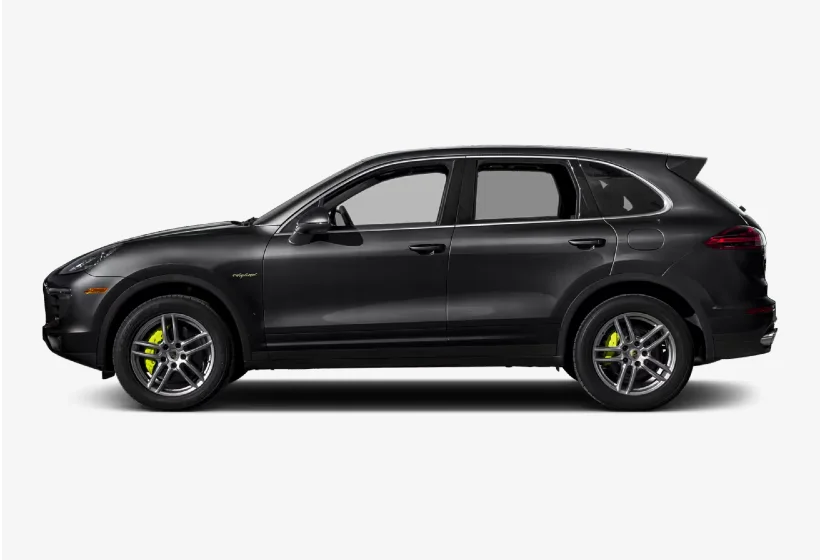
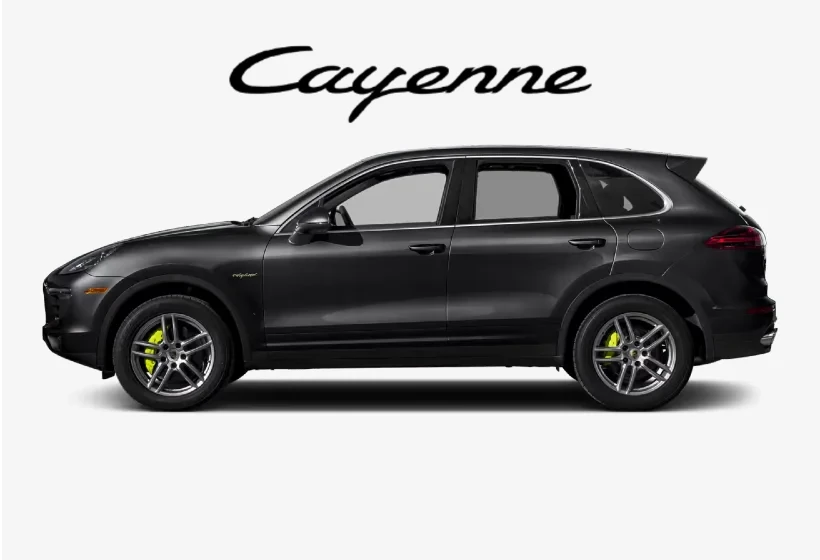
feat: añadir diseño responsive e imágenes y video exclusivo para PC

Changed region(s): [[0.2744, 0.0607, 0.7317, 0.2125]]

diff --git a/style.css b/style.css
@@ -6,6 +6,16 @@ p, h1, h3 {
     font-family: "Lato", sans-serif;
 }
 
+i, b {
+    text-align: center;
+    margin: 10%;
+    display: block;
+}
+
+#video-pc{
+    display: none;
+}
+
 .modelos {
     overflow: hidden;
     position: relative;
@@ -30,5 +40,71 @@ p, h1, h3 {
 
 .Motorsport img {
     border-radius: 50px;
+    width: 100%;
+}
+
+.historia p {
+  text-align: justify;
+  margin: 10%;
+}
+
+.historia img{
+    width: 80%;
+    border-radius: 50px; 
+    margin: 10%; 
+}
+
+#motorsport-pc{
+    display:none;
+}
+
+@media screen and (min-width: 1200px){
+    
+    #video-mobile{
+        display: none;
+    }
+
+    #video-pc{
+        display: block;
+    }
+    
+    p, i, b {
+        font-size: 25px;
+    }
+
+    header img {
+        width: 80px;
+    }
+
+    .historia{
+        display: flex;
+    }
+
+    .historia p{
+        width: 50%;
+        gap: 10px;
+        margin: auto;
+    }
+
+
+    .historia img{
+        width: 30%;
+        gap: 10px;
+        margin: auto;
+    }
+
+    .Motorsport{
+        display: flex;
+        flex-direction: column;
+    }
+
+    #motorsport-mobile{
+        display: none;
+    }
+
+    #motorsport-pc{
+        display: block;
+    }
+
 }
 

diff --git a/index.html b/index.html
@@ -15,21 +15,24 @@
     <audio src="resources/engine.mp3" autoplay> Audio </audio>
     <header>
         <img src="resources/logo.webp" alt="Logo" width="20%" style="position: absolute;">
-        <video src="resources/Porsche.webm" 
+        <video id="video-pc" src="resources/PorschePC.webm"
+        loop muted autoplay width="100%"></video>
+        <video id="video-mobile" src="resources/Porsche.webm" 
         loop muted autoplay width="100%"></video>
     </header>
     
+    <i>“Al principio miré a mi alrededor y no encontré el auto con el que soñaba. Así que decidí construirlo yo mismo.”</i>
     <div>
-        <i style="text-align: center; margin: 10%; display: block">“Al principio miré a mi alrededor y no encontré el auto con el que soñaba. Así que decidí construirlo yo mismo.”</i>
-        <div style="text-align: center">
-            <b>Ferry Porsche — Fundador de la marca.</b>
-        </div>
-        <img src="resources/ferryPorsche.webp" alt="Ferry Porsche" width="80%" style="border-radius: 50px; margin: 10%;" >
-        <p style="text-align: justify; margin: 10%">En 1948, el mundo del automovilismo cambió para siempre. Ante la frustración de no encontrar un auto deportivo que cumpliera con sus altas expectativas de ligereza, agilidad y rendimiento, Ferry Porsche tomó una decisión radical: diseñar y construir el coche de sus sueños con sus propias manos. Así nació el Porsche 356, el primer capítulo de una leyenda obsesionada con desafiar la física, dominar los circuitos de carreras y redefinir la ingeniería alemana en cada generación.</p>
+        <b>Ferry Porsche — Fundador de la marca.</b>
+    </div>
+    
+    <div class="historia">
+        <img src="resources/ferryPorsche.webp" alt="Ferry Porsche">
+        <p>En 1948, el mundo del automovilismo cambió para siempre. Ante la frustración de no encontrar un auto deportivo que cumpliera con sus altas expectativas de ligereza, agilidad y rendimiento, Ferry Porsche tomó una decisión radical: diseñar y construir el coche de sus sueños con sus propias manos. Así nació el Porsche 356, el primer capítulo de una leyenda obsesionada con desafiar la física, dominar los circuitos de carreras y redefinir la ingeniería alemana en cada generación.</p>
     </div>
 
-    <h1 style="text-align: center">Modelos Vehiculos</h1>
     <div class="modelos">
+        <h1 style="text-align: center">Modelos Vehiculos</h1>
         <div class="modelos-slide">
             <img src="resources/911.webp" alt="911">
             <img src="resources/718.webp" alt="718">
@@ -38,11 +41,12 @@
         </div>
     </div>
 
+    
     <h1 style="text-align: center">Porsche Motorsport</h1>
     <h3 style="text-align: center">Nacido para las Carreras</h3>
-
     <div class="Motorsport">
-        <img src="resources/mRaceborn.webp" alt="Raceborn" style="width: 100%">
+        <img id="motorsport-pc" src="resources/Raceborn.webp" alt="Raceborn">
+        <img id="motorsport-mobile" src="resources/mRaceborn.webp" alt="Raceborn">
         <p>La historia de Porsche está ligada al asfalto de los circuitos bajo el lema de Porsche Motorsport, #Raceborn. Desde su legendaria victoria de clase en las 24 Horas de Le Mans en 1951, la marca ha utilizado la alta competición no como un escaparate publicitario, sino como el laboratorio tecnológico definitivo. </p>
         <p>Con un récord imbatible de más de 30,000 victorias en diversas disciplinas —que van desde la resistencia extrema en Le Mans y las brutales dunas del Rally Dakar, hasta la precisión eléctrica de la Fórmula E—, cada innovación mecánica y de software es probada al límite en la pista antes de transferirse a los vehículos de producción en serie.</p>
     </div>